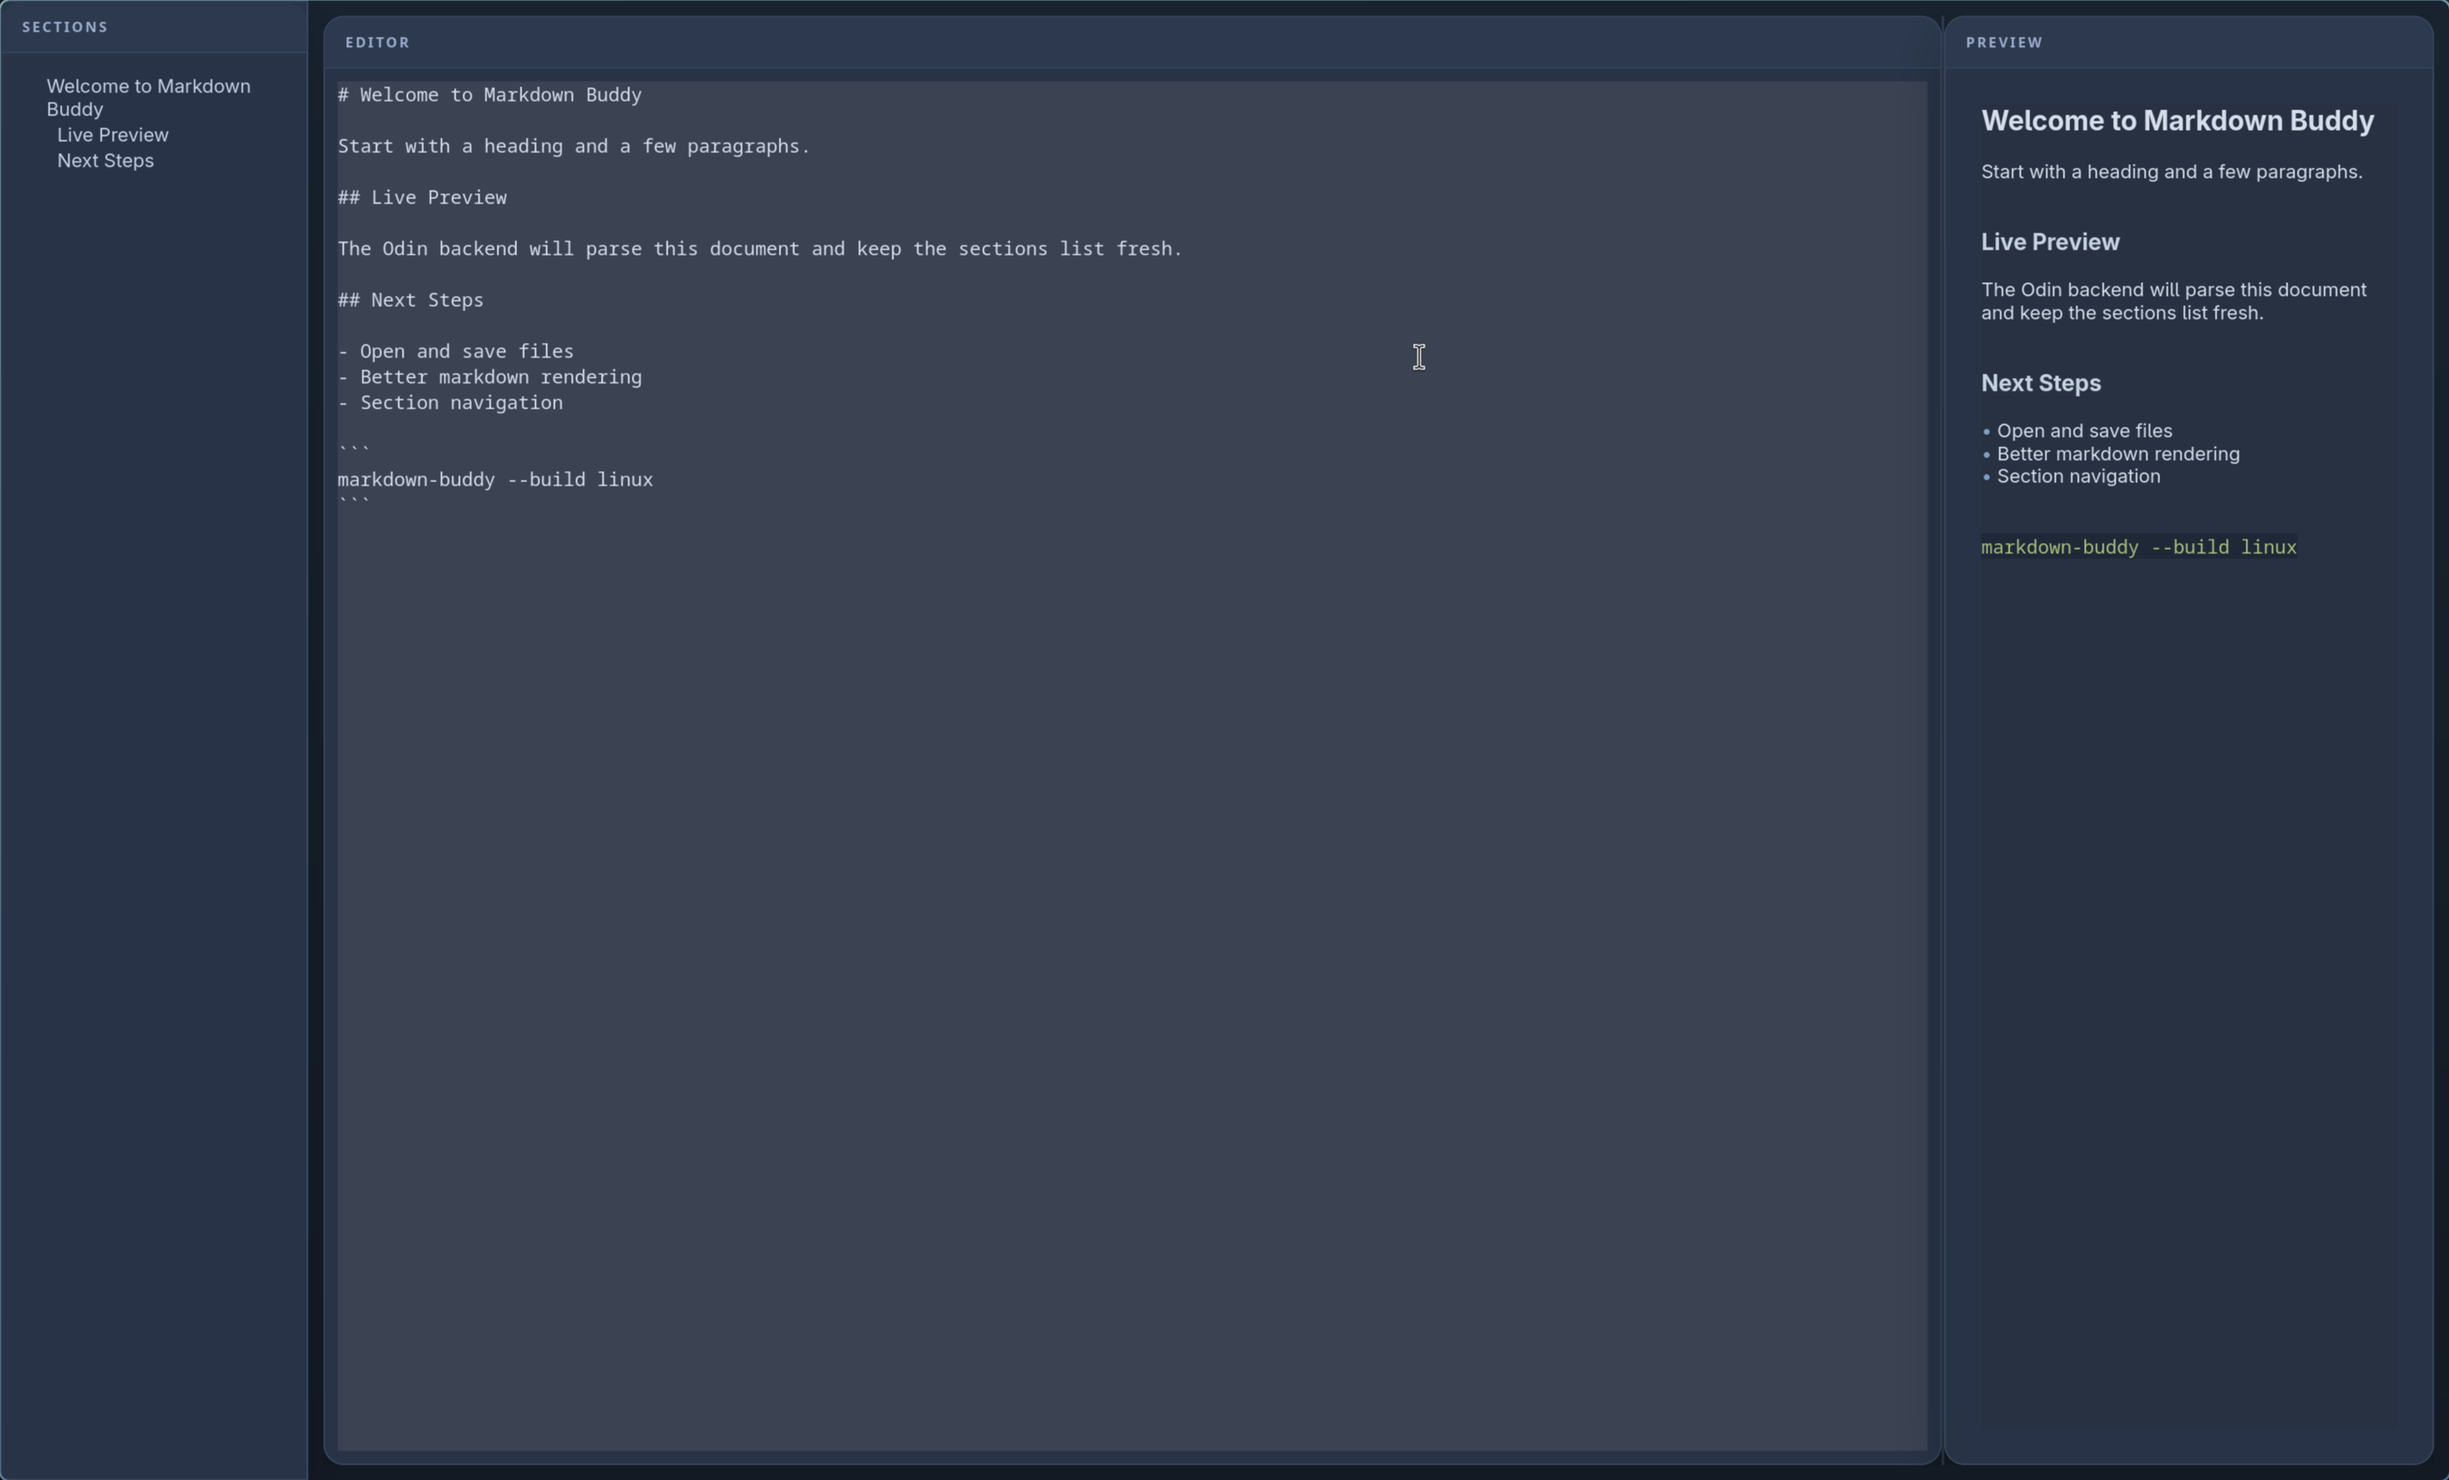
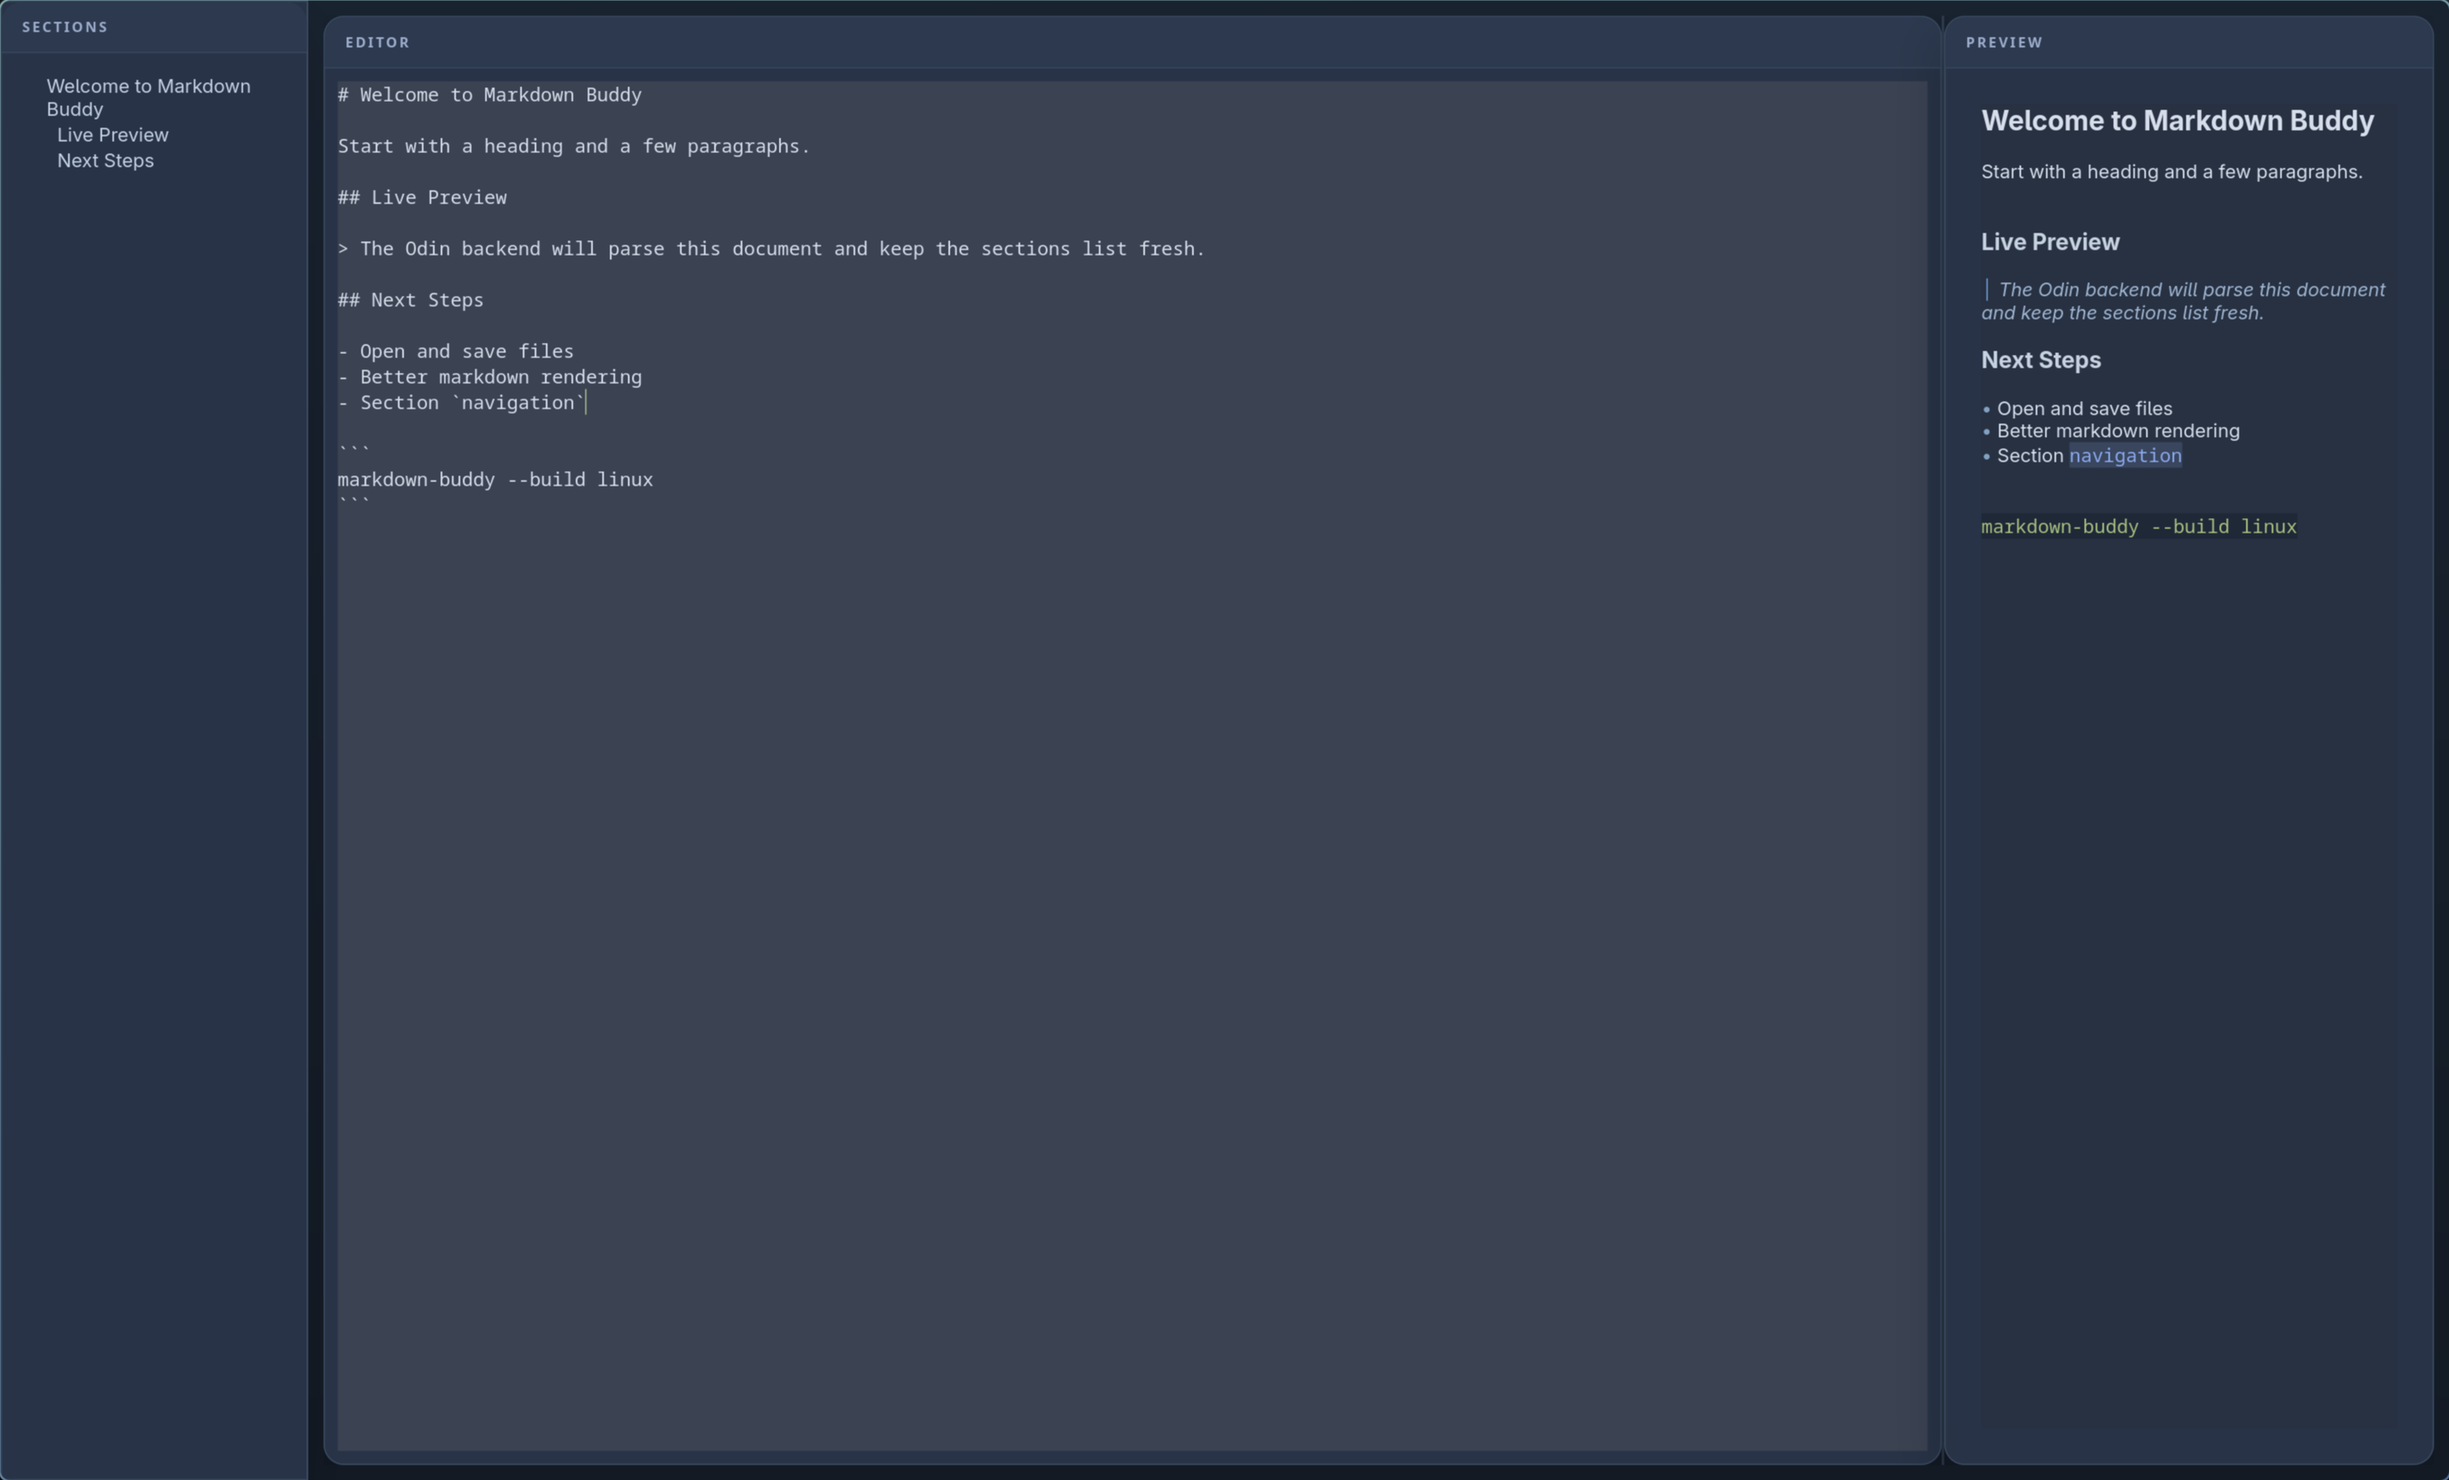
Support for > blocks.

Changed region(s): [[0.8077, 0.1872, 0.963, 0.3744], [0.1553, 0.156, 0.497, 0.1872], [0.1864, 0.2496, 0.2175, 0.2808]]

diff --git a/frontend-linux/src/main.c b/frontend-linux/src/main.c
@@ -16,7 +16,7 @@ static const char *APP_CSS =
     ".root-shell { background: linear-gradient(180deg, #192330 0%, #131a24 100%); }"
     ".sidebar-panel, .content-panel { background: rgba(41, 52, 72, 0.96); border: 1px solid rgba(129, 161, 193, 0.22); box-shadow: 0 16px 40px rgba(7, 11, 16, 0.28); }"
     ".sidebar-panel { border-right-color: rgba(129, 161, 193, 0.3); }"
-    ".content-panel { border-radius: 16px; overflow: hidden; }"
+    ".content-panel { border-radius: 16px; }"
     ".panel-header { padding: 12px 16px; border-bottom: 1px solid rgba(129, 161, 193, 0.14); background: rgba(44, 57, 79, 0.94); border-top-left-radius: 16px; border-top-right-radius: 16px; }"
     ".panel-title { font-family: 'IBM Plex Sans', sans-serif; font-size: 11px; font-weight: 700; letter-spacing: 0.16em; text-transform: uppercase; color: #9daccb; }"
     ".panel-body { padding: 10px; }"
@@ -150,6 +150,24 @@ static gboolean parse_list_item(const char *line, const char **item_out) {
     return FALSE;
 }
 
+static gboolean parse_blockquote(const char *line, const char **quote_out) {
+    while (*line == ' ' || *line == '\t') {
+        ++line;
+    }
+
+    if (*line != '>') {
+        return FALSE;
+    }
+
+    ++line;
+    if (*line == ' ') {
+        ++line;
+    }
+
+    *quote_out = line;
+    return TRUE;
+}
+
 static void append_escaped_markup(GString *markup, const char *text) {
     gchar *escaped = g_markup_escape_text(text != NULL ? text : "", -1);
     g_string_append(markup, escaped);
@@ -213,6 +231,7 @@ static void render_preview(GtkLabel *label, const char *markdown_text) {
         int level = 0;
         const char *title = NULL;
         const char *item = NULL;
+        const char *quote = NULL;
 
         if (g_str_has_prefix(line, "```")) {
             in_code = !in_code;
@@ -253,6 +272,13 @@ static void render_preview(GtkLabel *label, const char *markdown_text) {
             g_string_append(markup, "<span foreground='#81a1c1'>•</span> ");
             append_inline_markup(markup, item);
             g_string_append(markup, "\n");
+            continue;
+        }
+
+        if (parse_blockquote(line, &quote)) {
+            g_string_append(markup, "<span foreground='#719cd6'>│</span> <span foreground='#9fb4d0'><i>");
+            append_inline_markup(markup, quote);
+            g_string_append(markup, "</i></span>\n");
             continue;
         }
 
